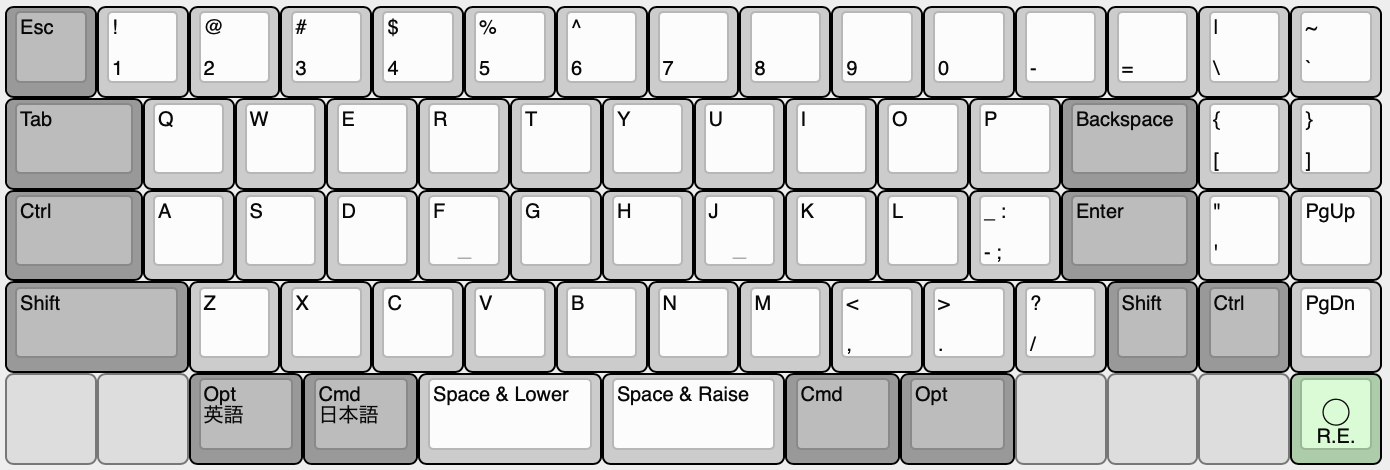
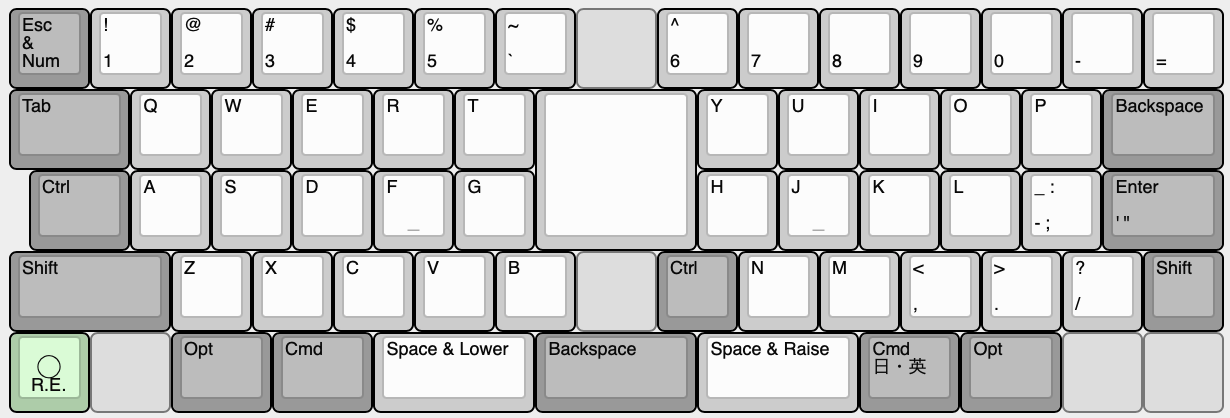
”私の使用環境”に追記、レイアウト図追加

diff --git a/README.md b/README.md
@@ -207,10 +207,8 @@ Twitterのハッシュタグ[#Jones_kbd](https://twitter.com/search?q=%23Jones_k
 
 ### 自宅における私的使用
 
-<!--
-〓更新
 ![for private](./assets/layout_private.png)  
--->
+
 自宅ではMacを使用しており、主な用途は次のとおりです。
 
 - キーボードファームウェアの作成。C言語など。（VS Code）
@@ -227,12 +225,15 @@ Twitterのハッシュタグ[#Jones_kbd](https://twitter.com/search?q=%23Jones_k
 
 左手でマウスを使用するため、マウス主体のアプリケーションを使用する際に右手でModキーが操作できるよう、右手側のModキー（Cmd, Opt, Shift, Ctrl）をそれぞれ単独で配置しています。
 
+日本語入力で長音（伸ばし棒）`ー`を使用することが多いため、`L`の隣の`;`には、`-`を割り当てています。  
+また、ホームポジションから手を移動するのが面倒だったため、`[`,`]`,`;`,`'`の記号キーは物理的な配置はおこなわず、レイヤー内に配置しました。
+
+左下のロータリエンコーダは、YouTubeの視聴中やradikoの聴取中に、ささっとボリュームを変えるのに使っています。
+
 ### 会社における業務使用
 
-<!--
-〓更新
 ![for work](./assets/layout_work.png)  
--->
+
 Windows XPのPCで、主な使用用途は次のとおりです。
 
 - 何らかのデータの集計やリストの管理など（Excel）
@@ -242,12 +243,15 @@ Windows XPのPCで、主な使用用途は次のとおりです。
 
 作業量的には、Excel関連が7割、数値データの入力が2割、その他が1割という割合です。  
 
-独自ソフトでカーソルキーを使うことが多いので、カーソルキーを単独で配置している点が自宅との大きな違いです。  
+基本的には自宅で使用しているものと同じですが、独自ソフトでカーソルキーを使うことが多いので、カーソルキーを単独で配置している点が自宅との大きな違いです。  
 また、Windows PCのため、Windows向けのベースレイヤーに切り替えています。
 
 数値データの大量入力は、専用のNumericレイヤーでおこなっており、以前Realforceを使っていたときと変わらない速度で入力できています。  
 
 共用PCで作業することが日に何度もあり、そのときは一般的なキーボードを打鍵することになりますが、Jonesのレイアウトが特殊すぎない範囲に収まっているので、特に違和感なく打鍵できています。
+
+余談ですが、緑色や水色などの色付きキーキャップを使用すると、キーボードについて声をかけられる率が上がります。  
+ピンク系のキーキャップは、さらにたくさん声をかけられます。
 
 </details>
 
